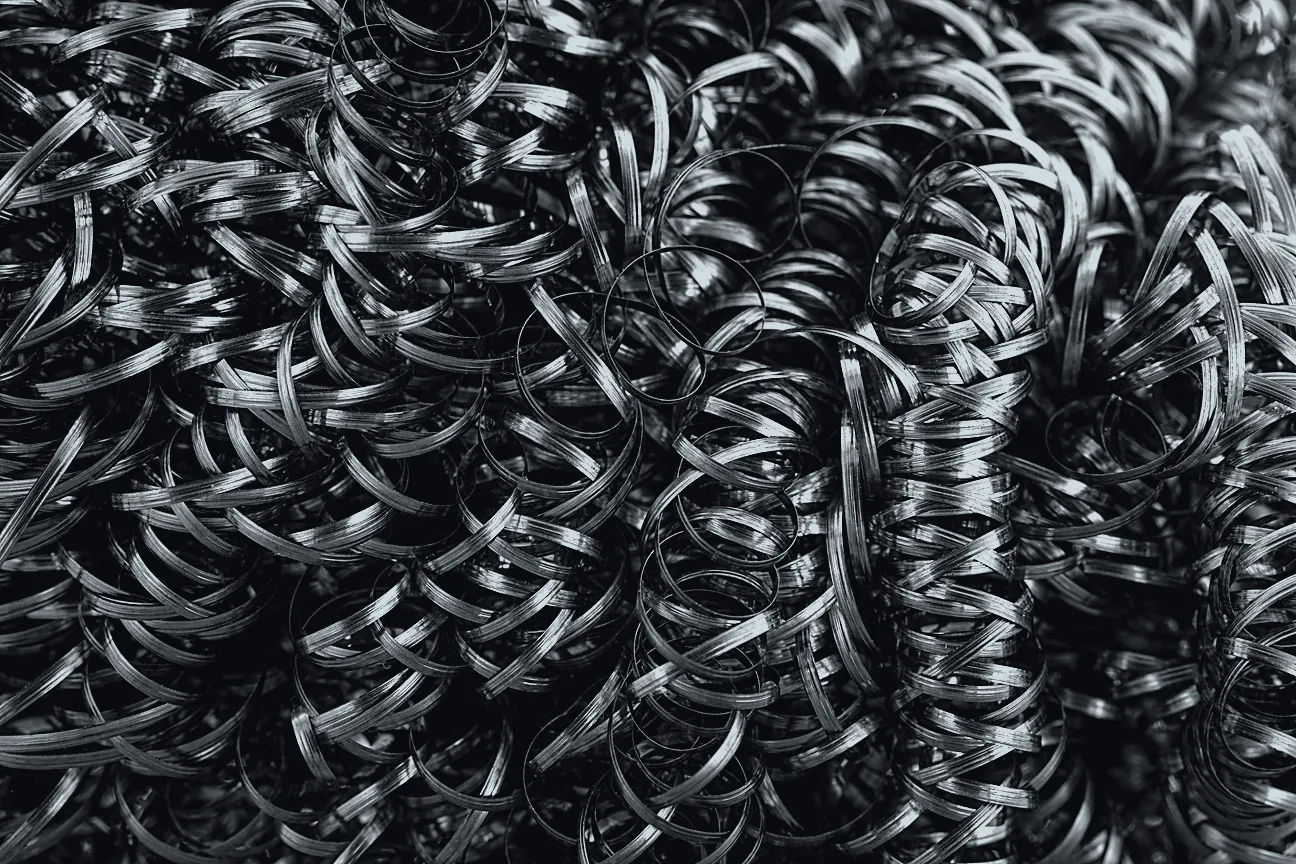
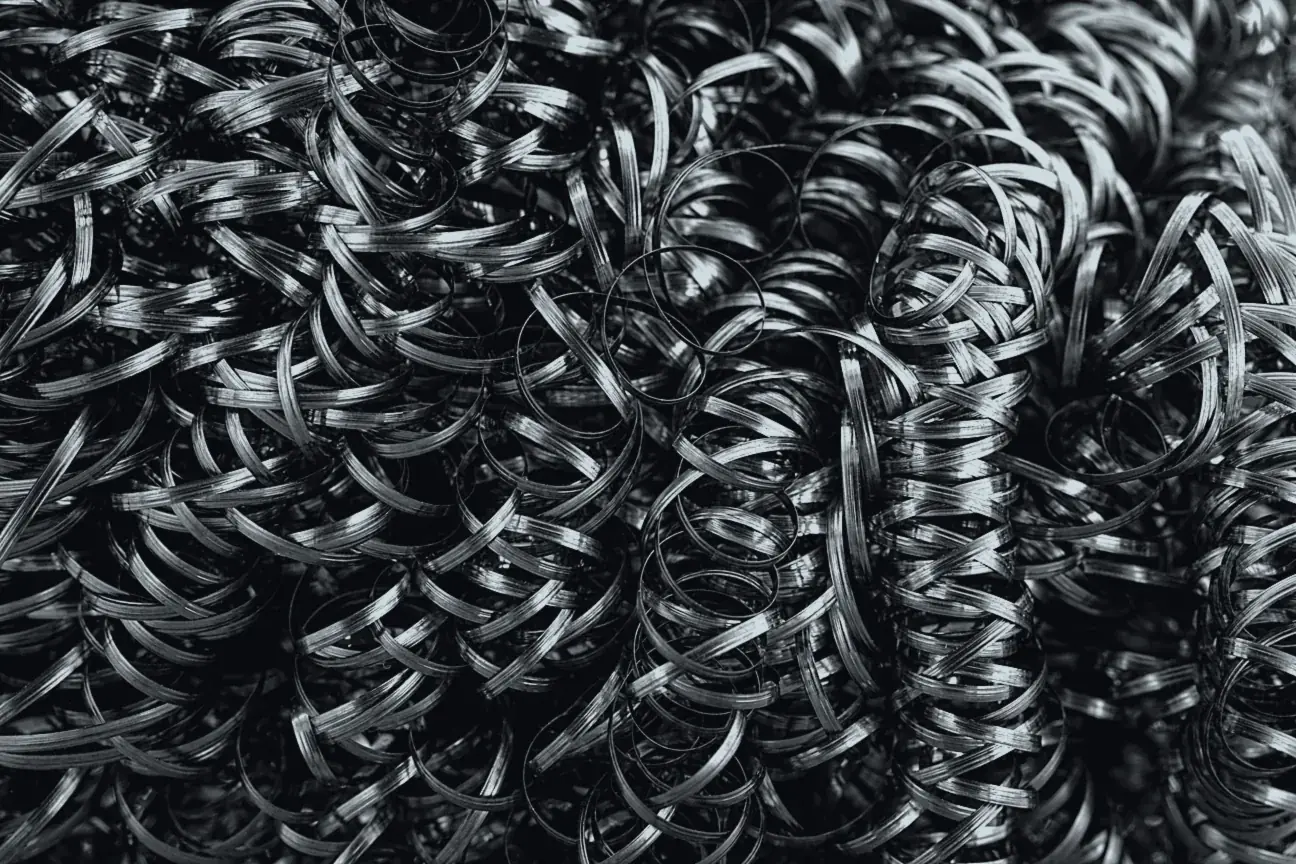
build: publish site/ from c6ebe58 board: regenerate against 52557cc

diff --git a/custom/loader/loader.js b/custom/loader/loader.js
@@ -7,17 +7,19 @@
      · the document has parsed (DOMContentLoaded),
      · the fonts that the first screen needs have loaded,
      · every image inside the first screen has decoded,
-     · and the browser's own `load` event has fired, or 2.5 s have passed since
+     · and the browser's own `load` event has fired, or 1.4 s have passed since
        DOMContentLoaded (a video or a print sheet can hold `load` for a long time
        without anything on screen changing; the visual checks already cover it).
 
    Then it keeps the MIN beat so the mark does not flash, and fades out over
-   650 ms. MAX is a failsafe, not a schedule: it only fires if something above
-   never settles.
+   450 ms. MIN is deliberately short: a visitor who sees a 1.4 s held screen on
+   a connection that was ready in 400 ms reads that as the site being slow.
+   MAX is a failsafe, not a schedule: it only fires if something above never
+   settles.
 
    Options (data attributes on the script tag):
      data-text="Pulse"      loader word
-     data-min="1400"        minimum time on screen (ms)
+     data-min="800"         minimum time on screen (ms)
      data-max="12000"       failsafe ceiling (ms)
 
    Behaviour flags: ?nopreload=1 (no loader), ?loader=hold (visible, no finish).
@@ -31,9 +33,9 @@
   var script = document.currentScript;
   var opt = function (name, dflt) { return script ? (script.getAttribute(name) || dflt) : dflt; };
   var TEXT = opt('data-text', 'Pulse');
-  var MIN = parseInt(opt('data-min', '1400'), 10);
+  var MIN = parseInt(opt('data-min', '800'), 10);
   var MAX = parseInt(opt('data-max', '12000'), 10);
-  var LOAD_GRACE = 2500; // how long after DCL a held `load` event may delay us
+  var LOAD_GRACE = 1400; // how long after DCL a held `load` event may delay us
 
   if (window.matchMedia && window.matchMedia('(prefers-reduced-motion: reduce)').matches) return;
   if (/[?&]nopreload=1/.test(location.search)) return;
@@ -87,7 +89,7 @@
       if (el && el.parentNode) el.parentNode.removeChild(el);
       root.classList.remove('pl-lock');
       document.dispatchEvent(new CustomEvent('pulse-loader:done'));
-    }, 650);
+    }, 450);
   }
 
   /* The first screen, not the whole document: an image 4 screens down is not

diff --git a/404.html b/404.html
@@ -117,8 +117,8 @@
 <script src="/custom/brand/services-ai.js?v=2" defer></script>
 <!-- /pulse ai service -->
 <!-- pulse loader -->
-<link rel="stylesheet" href="/custom/loader/loader.css?v=f2c18313">
-<script src="/custom/loader/loader.js?v=cec2dfae" data-text="Pulse" data-min="1400" data-max="12000" defer></script>
+<link rel="stylesheet" href="/custom/loader/loader.css?v=1b30e6a4">
+<script src="/custom/loader/loader.js?v=a43d251f" data-text="Pulse" data-min="800" data-max="12000" defer></script>
 <!-- /pulse loader -->
 <!-- pulse font preload -->
 <link rel="preload" href="/s/geist/v5/gyBhhwUxId8gMGYQMKR3pzfaWI_RnOM4mJPby1QNtA.woff2" as="font" type="font/woff2" crossorigin>

diff --git a/404/index.html b/404/index.html
@@ -116,8 +116,8 @@
 <script src="/custom/brand/services-ai.js?v=2" defer></script>
 <!-- /pulse ai service -->
 <!-- pulse loader -->
-<link rel="stylesheet" href="/custom/loader/loader.css?v=f2c18313">
-<script src="/custom/loader/loader.js?v=cec2dfae" data-text="Pulse" data-min="1400" data-max="12000" defer></script>
+<link rel="stylesheet" href="/custom/loader/loader.css?v=1b30e6a4">
+<script src="/custom/loader/loader.js?v=a43d251f" data-text="Pulse" data-min="800" data-max="12000" defer></script>
 <!-- /pulse loader -->
 <!-- pulse font preload -->
 <link rel="preload" href="/s/geist/v5/gyBhhwUxId8gMGYQMKR3pzfaWI_RnOM4mJPby1QNtA.woff2" as="font" type="font/woff2" crossorigin>

diff --git a/contact/index.html b/contact/index.html
@@ -116,8 +116,8 @@
 <script src="/custom/brand/services-ai.js?v=2" defer></script>
 <!-- /pulse ai service -->
 <!-- pulse loader -->
-<link rel="stylesheet" href="/custom/loader/loader.css?v=f2c18313">
-<script src="/custom/loader/loader.js?v=cec2dfae" data-text="Pulse" data-min="1400" data-max="12000" defer></script>
+<link rel="stylesheet" href="/custom/loader/loader.css?v=1b30e6a4">
+<script src="/custom/loader/loader.js?v=a43d251f" data-text="Pulse" data-min="800" data-max="12000" defer></script>
 <!-- /pulse loader -->
 <!-- pulse font preload -->
 <link rel="preload" href="/s/geist/v5/gyBhhwUxId8gMGYQMKR3pzfaWI_RnOM4mJPby1QNtA.woff2" as="font" type="font/woff2" crossorigin>

diff --git a/insights/designing-brands-for-a-world-that-moves-fast/index.html b/insights/designing-brands-for-a-world-that-moves-fast/index.html
@@ -116,8 +116,8 @@
 <script src="/custom/brand/services-ai.js?v=2" defer></script>
 <!-- /pulse ai service -->
 <!-- pulse loader -->
-<link rel="stylesheet" href="/custom/loader/loader.css?v=f2c18313">
-<script src="/custom/loader/loader.js?v=cec2dfae" data-text="Pulse" data-min="1400" data-max="12000" defer></script>
+<link rel="stylesheet" href="/custom/loader/loader.css?v=1b30e6a4">
+<script src="/custom/loader/loader.js?v=a43d251f" data-text="Pulse" data-min="800" data-max="12000" defer></script>
 <!-- /pulse loader -->
 <!-- pulse font preload -->
 <link rel="preload" href="/s/geist/v5/gyBhhwUxId8gMGYQMKR3pzfaWI_RnOM4mJPby1QNtA.woff2" as="font" type="font/woff2" crossorigin>

diff --git a/insights/designing-digital-experiences-people-remember/index.html b/insights/designing-digital-experiences-people-remember/index.html
@@ -116,8 +116,8 @@
 <script src="/custom/brand/services-ai.js?v=2" defer></script>
 <!-- /pulse ai service -->
 <!-- pulse loader -->
-<link rel="stylesheet" href="/custom/loader/loader.css?v=f2c18313">
-<script src="/custom/loader/loader.js?v=cec2dfae" data-text="Pulse" data-min="1400" data-max="12000" defer></script>
+<link rel="stylesheet" href="/custom/loader/loader.css?v=1b30e6a4">
+<script src="/custom/loader/loader.js?v=a43d251f" data-text="Pulse" data-min="800" data-max="12000" defer></script>
 <!-- /pulse loader -->
 <!-- pulse font preload -->
 <link rel="preload" href="/s/geist/v5/gyBhhwUxId8gMGYQMKR3pzfaWI_RnOM4mJPby1QNtA.woff2" as="font" type="font/woff2" crossorigin>

diff --git a/insights/designing-for-attention-without-losing-meaning/index.html b/insights/designing-for-attention-without-losing-meaning/index.html
@@ -116,8 +116,8 @@
 <script src="/custom/brand/services-ai.js?v=2" defer></script>
 <!-- /pulse ai service -->
 <!-- pulse loader -->
-<link rel="stylesheet" href="/custom/loader/loader.css?v=f2c18313">
-<script src="/custom/loader/loader.js?v=cec2dfae" data-text="Pulse" data-min="1400" data-max="12000" defer></script>
+<link rel="stylesheet" href="/custom/loader/loader.css?v=1b30e6a4">
+<script src="/custom/loader/loader.js?v=a43d251f" data-text="Pulse" data-min="800" data-max="12000" defer></script>
 <!-- /pulse loader -->
 <!-- pulse font preload -->
 <link rel="preload" href="/s/geist/v5/gyBhhwUxId8gMGYQMKR3pzfaWI_RnOM4mJPby1QNtA.woff2" as="font" type="font/woff2" crossorigin>

diff --git a/insights/index.html b/insights/index.html
@@ -116,8 +116,8 @@
 <script src="/custom/brand/services-ai.js?v=2" defer></script>
 <!-- /pulse ai service -->
 <!-- pulse loader -->
-<link rel="stylesheet" href="/custom/loader/loader.css?v=f2c18313">
-<script src="/custom/loader/loader.js?v=cec2dfae" data-text="Pulse" data-min="1400" data-max="12000" defer></script>
+<link rel="stylesheet" href="/custom/loader/loader.css?v=1b30e6a4">
+<script src="/custom/loader/loader.js?v=a43d251f" data-text="Pulse" data-min="800" data-max="12000" defer></script>
 <!-- /pulse loader -->
 <!-- pulse font preload -->
 <link rel="preload" href="/s/geist/v5/gyBhhwUxId8gMGYQMKR3pzfaWI_RnOM4mJPby1QNtA.woff2" as="font" type="font/woff2" crossorigin>

diff --git a/insights/the-art-of-building-a-distinctive-visual-identity/index.html b/insights/the-art-of-building-a-distinctive-visual-identity/index.html
@@ -116,8 +116,8 @@
 <script src="/custom/brand/services-ai.js?v=2" defer></script>
 <!-- /pulse ai service -->
 <!-- pulse loader -->
-<link rel="stylesheet" href="/custom/loader/loader.css?v=f2c18313">
-<script src="/custom/loader/loader.js?v=cec2dfae" data-text="Pulse" data-min="1400" data-max="12000" defer></script>
+<link rel="stylesheet" href="/custom/loader/loader.css?v=1b30e6a4">
+<script src="/custom/loader/loader.js?v=a43d251f" data-text="Pulse" data-min="800" data-max="12000" defer></script>
 <!-- /pulse loader -->
 <!-- pulse font preload -->
 <link rel="preload" href="/s/geist/v5/gyBhhwUxId8gMGYQMKR3pzfaWI_RnOM4mJPby1QNtA.woff2" as="font" type="font/woff2" crossorigin>

diff --git a/insights/what-makes-a-website-feel-premium/index.html b/insights/what-makes-a-website-feel-premium/index.html
@@ -116,8 +116,8 @@
 <script src="/custom/brand/services-ai.js?v=2" defer></script>
 <!-- /pulse ai service -->
 <!-- pulse loader -->
-<link rel="stylesheet" href="/custom/loader/loader.css?v=f2c18313">
-<script src="/custom/loader/loader.js?v=cec2dfae" data-text="Pulse" data-min="1400" data-max="12000" defer></script>
+<link rel="stylesheet" href="/custom/loader/loader.css?v=1b30e6a4">
+<script src="/custom/loader/loader.js?v=a43d251f" data-text="Pulse" data-min="800" data-max="12000" defer></script>
 <!-- /pulse loader -->
 <!-- pulse font preload -->
 <link rel="preload" href="/s/geist/v5/gyBhhwUxId8gMGYQMKR3pzfaWI_RnOM4mJPby1QNtA.woff2" as="font" type="font/woff2" crossorigin>

diff --git a/insights/why-great-brands-feel-simple/index.html b/insights/why-great-brands-feel-simple/index.html
@@ -116,8 +116,8 @@
 <script src="/custom/brand/services-ai.js?v=2" defer></script>
 <!-- /pulse ai service -->
 <!-- pulse loader -->
-<link rel="stylesheet" href="/custom/loader/loader.css?v=f2c18313">
-<script src="/custom/loader/loader.js?v=cec2dfae" data-text="Pulse" data-min="1400" data-max="12000" defer></script>
+<link rel="stylesheet" href="/custom/loader/loader.css?v=1b30e6a4">
+<script src="/custom/loader/loader.js?v=a43d251f" data-text="Pulse" data-min="800" data-max="12000" defer></script>
 <!-- /pulse loader -->
 <!-- pulse font preload -->
 <link rel="preload" href="/s/geist/v5/gyBhhwUxId8gMGYQMKR3pzfaWI_RnOM4mJPby1QNtA.woff2" as="font" type="font/woff2" crossorigin>

diff --git a/insights/why-strategy-should-come-before-pixels/index.html b/insights/why-strategy-should-come-before-pixels/index.html
@@ -116,8 +116,8 @@
 <script src="/custom/brand/services-ai.js?v=2" defer></script>
 <!-- /pulse ai service -->
 <!-- pulse loader -->
-<link rel="stylesheet" href="/custom/loader/loader.css?v=f2c18313">
-<script src="/custom/loader/loader.js?v=cec2dfae" data-text="Pulse" data-min="1400" data-max="12000" defer></script>
+<link rel="stylesheet" href="/custom/loader/loader.css?v=1b30e6a4">
+<script src="/custom/loader/loader.js?v=a43d251f" data-text="Pulse" data-min="800" data-max="12000" defer></script>
 <!-- /pulse loader -->
 <!-- pulse font preload -->
 <link rel="preload" href="/s/geist/v5/gyBhhwUxId8gMGYQMKR3pzfaWI_RnOM4mJPby1QNtA.woff2" as="font" type="font/woff2" crossorigin>
